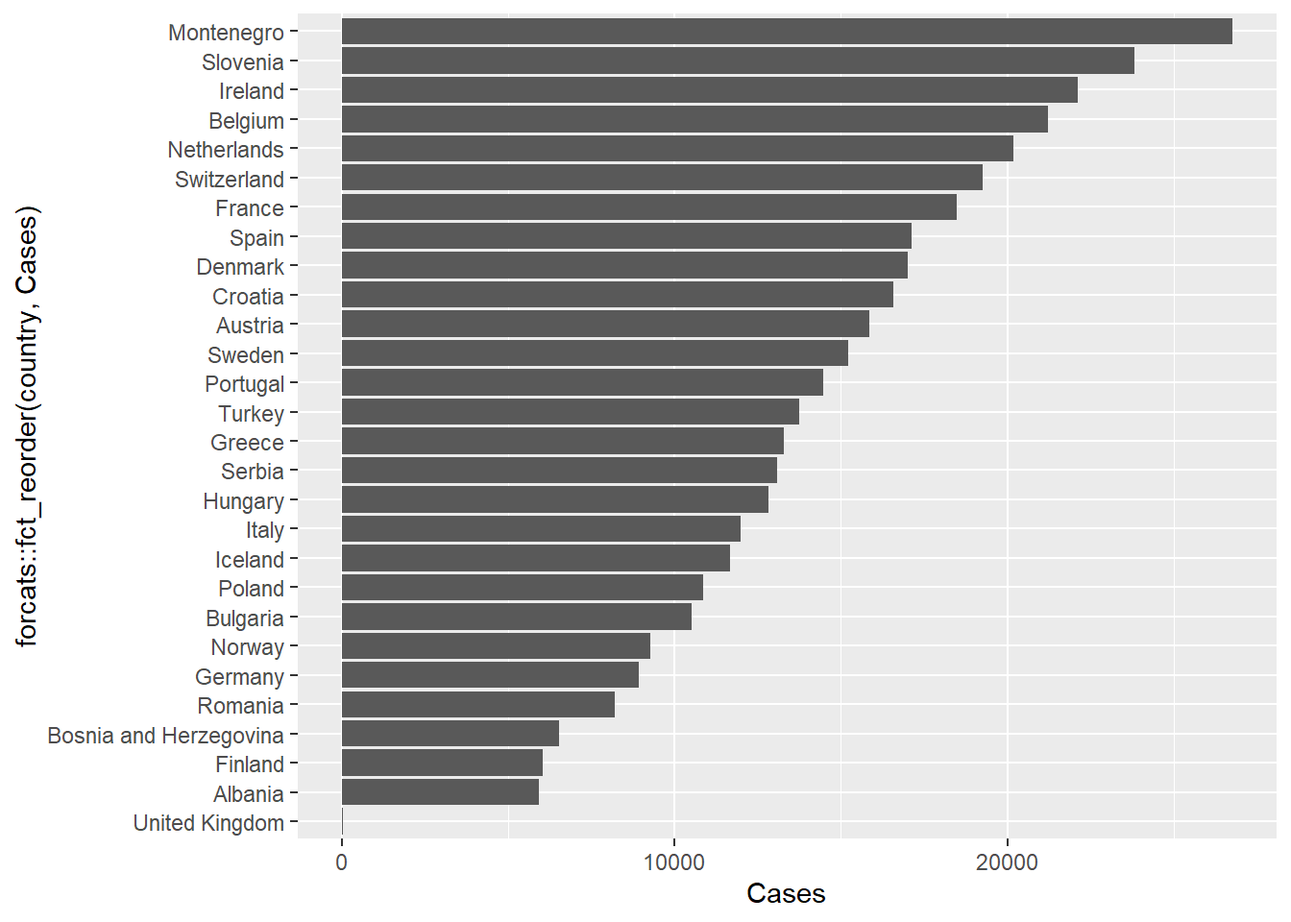
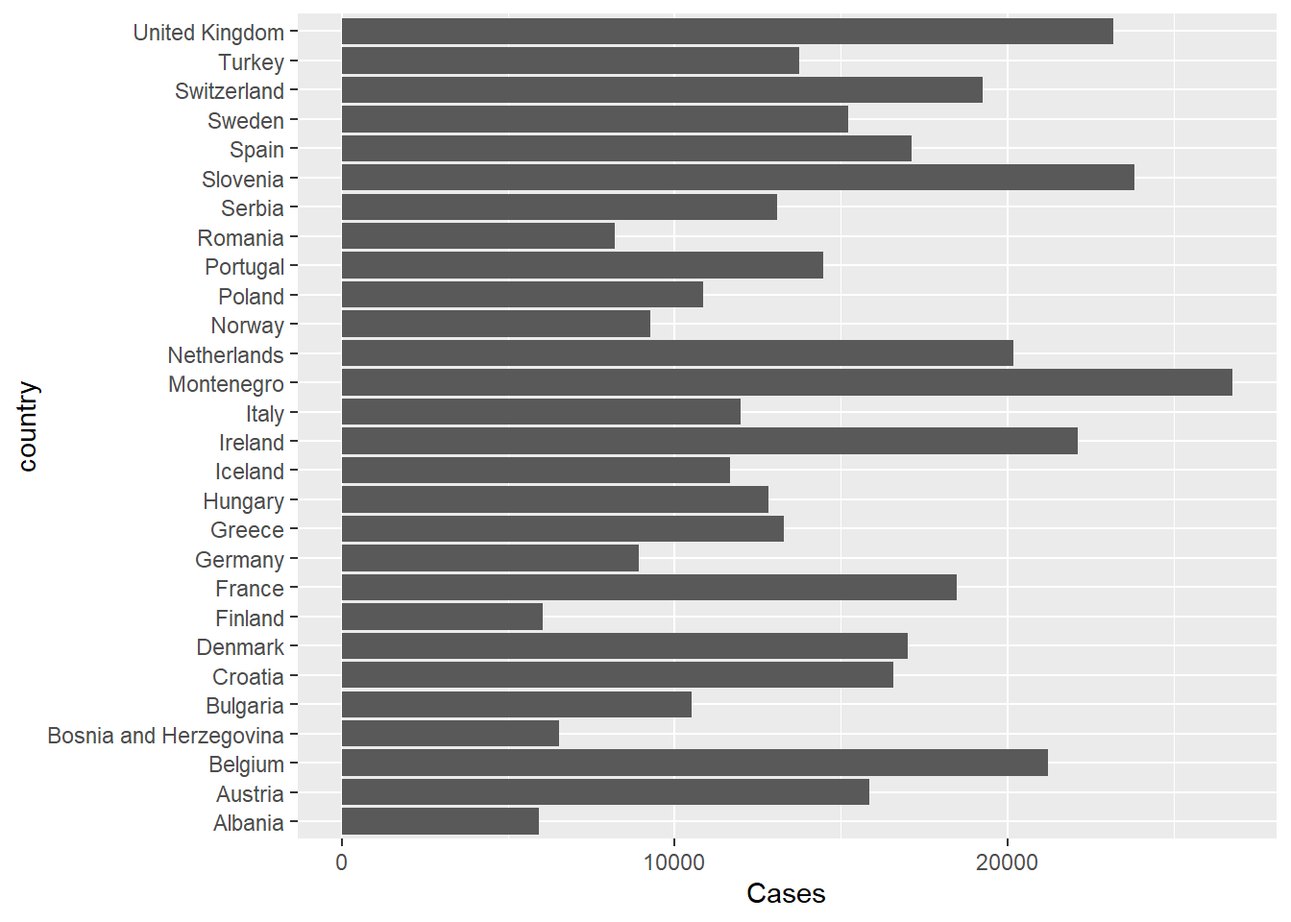
fix problem with Part 3 covid data

diff --git a/docs/training/r_part3/index.html b/docs/training/r_part3/index.html
@@ -7,7 +7,7 @@
 <meta name="viewport" content="width=device-width, initial-scale=1.0, user-scalable=yes">
 
 <meta name="author" content="Mark Dunning">
-<meta name="dcterms.date" content="2025-10-10">
+<meta name="dcterms.date" content="2025-10-16">
 
 <title>Introduction to R - Part 3 – Dr.&nbsp;Mark Dunning - Bioinformatician / Data Scientist</title>
 <style>
@@ -236,7 +236,7 @@ window.Quarto = {
     <div>
     <div class="quarto-title-meta-heading">Published</div>
     <div class="quarto-title-meta-contents">
-      <p class="date">October 10, 2025</p>
+      <p class="date">October 16, 2025</p>
     </div>
   </div>
   
@@ -1026,7 +1026,7 @@ Note
 <div class="cell">
 <div class="sourceCode cell-code" id="cb84"><pre class="sourceCode r code-with-copy"><code class="sourceCode r"><span id="cb84-1"><a href="#cb84-1" aria-hidden="true" tabindex="-1"></a>covid <span class="ot">&lt;-</span> <span class="fu">read_csv</span>(<span class="st">"raw_data/time_series_covid19_confirmed_global.csv"</span>)</span></code><button title="Copy to Clipboard" class="code-copy-button"><i class="bi"></i></button></pre></div>
 <div class="cell-output cell-output-stderr">
-<pre><code>Rows: 270 Columns: 1147
+<pre><code>Rows: 289 Columns: 1147
 ── Column specification ────────────────────────────────────────────────────────
 Delimiter: ","
 chr    (2): Province/State, Country/Region
@@ -1037,7 +1037,7 @@ dbl (1145): Lat, Long, 1/22/20, 1/23/20, 1/24/20, 1/25/20, 1/26/20, 1/27/20,...
 </div>
 <div class="sourceCode cell-code" id="cb86"><pre class="sourceCode r code-with-copy"><code class="sourceCode r"><span id="cb86-1"><a href="#cb86-1" aria-hidden="true" tabindex="-1"></a>covid</span></code><button title="Copy to Clipboard" class="code-copy-button"><i class="bi"></i></button></pre></div>
 <div class="cell-output cell-output-stdout">
-<pre><code># A tibble: 270 × 1,147
+<pre><code># A tibble: 289 × 1,147
    `Province/State`  `Country/Region`   Lat   Long `1/22/20` `1/23/20` `1/24/20`
    &lt;chr&gt;             &lt;chr&gt;            &lt;dbl&gt;  &lt;dbl&gt;     &lt;dbl&gt;     &lt;dbl&gt;     &lt;dbl&gt;
  1 &lt;NA&gt;              Afghanistan       33.9  67.7          0         0         0
@@ -1050,7 +1050,7 @@ dbl (1145): Lat, Long, 1/22/20, 1/23/20, 1/24/20, 1/25/20, 1/26/20, 1/27/20,...
  8 &lt;NA&gt;              Argentina        -38.4 -63.6          0         0         0
  9 &lt;NA&gt;              Armenia           40.1  45.0          0         0         0
 10 Australian Capit… Australia        -35.5 149.           0         0         0
-# ℹ 260 more rows
+# ℹ 279 more rows
 # ℹ 1,140 more variables: `1/25/20` &lt;dbl&gt;, `1/26/20` &lt;dbl&gt;, `1/27/20` &lt;dbl&gt;,
 #   `1/28/20` &lt;dbl&gt;, `1/29/20` &lt;dbl&gt;, `1/30/20` &lt;dbl&gt;, `1/31/20` &lt;dbl&gt;,
 #   `2/1/20` &lt;dbl&gt;, `2/2/20` &lt;dbl&gt;, `2/3/20` &lt;dbl&gt;, `2/4/20` &lt;dbl&gt;,
@@ -1091,7 +1091,7 @@ About “tidy data”
 <span id="cb90-6"><a href="#cb90-6" aria-hidden="true" tabindex="-1"></a>  <span class="fu">pivot_longer</span>(<span class="dv">5</span><span class="sc">:</span><span class="fu">last_col</span>(),<span class="at">names_to=</span><span class="st">"Date"</span>, <span class="at">values_to=</span><span class="st">"Cases"</span>)</span>
 <span id="cb90-7"><a href="#cb90-7" aria-hidden="true" tabindex="-1"></a>covid</span></code><button title="Copy to Clipboard" class="code-copy-button"><i class="bi"></i></button></pre></div>
 <div class="cell-output cell-output-stdout">
-<pre><code># A tibble: 308,610 × 6
+<pre><code># A tibble: 330,327 × 6
    `Province/State` country       Lat  Long Date    Cases
    &lt;chr&gt;            &lt;chr&gt;       &lt;dbl&gt; &lt;dbl&gt; &lt;chr&gt;   &lt;dbl&gt;
  1 &lt;NA&gt;             Afghanistan  33.9  67.7 1/22/20     0
@@ -1104,7 +1104,7 @@ About “tidy data”
  8 &lt;NA&gt;             Afghanistan  33.9  67.7 1/29/20     0
  9 &lt;NA&gt;             Afghanistan  33.9  67.7 1/30/20     0
 10 &lt;NA&gt;             Afghanistan  33.9  67.7 1/31/20     0
-# ℹ 308,600 more rows</code></pre>
+# ℹ 330,317 more rows</code></pre>
 </div>
 </div>
 <p>The number of rows and columns has changed dramatically, but this is a much more usable form for <code>dplyr</code> and <code>ggplot2</code>.</p>
@@ -1135,7 +1135,7 @@ Dealing with dates
 <span id="cb92-4"><a href="#cb92-4" aria-hidden="true" tabindex="-1"></a>  <span class="fu">mutate</span>(<span class="at">Date=</span><span class="fu">as.Date</span>(Date,<span class="st">"%m/%d/%y"</span>))</span>
 <span id="cb92-5"><a href="#cb92-5" aria-hidden="true" tabindex="-1"></a>covid</span></code><button title="Copy to Clipboard" class="code-copy-button"><i class="bi"></i></button></pre></div>
 <div class="cell-output cell-output-stdout">
-<pre><code># A tibble: 308,610 × 6
+<pre><code># A tibble: 330,327 × 6
    `Province/State` country       Lat  Long Date       Cases
    &lt;chr&gt;            &lt;chr&gt;       &lt;dbl&gt; &lt;dbl&gt; &lt;date&gt;     &lt;dbl&gt;
  1 &lt;NA&gt;             Afghanistan  33.9  67.7 2020-01-22     0
@@ -1148,7 +1148,7 @@ Dealing with dates
  8 &lt;NA&gt;             Afghanistan  33.9  67.7 2020-01-29     0
  9 &lt;NA&gt;             Afghanistan  33.9  67.7 2020-01-30     0
 10 &lt;NA&gt;             Afghanistan  33.9  67.7 2020-01-31     0
-# ℹ 308,600 more rows</code></pre>
+# ℹ 330,317 more rows</code></pre>
 </div>
 </div>
 <p>Another useful modification is to make sure only one row exists for each country. If we look at the data for some countries (e.g.&nbsp;China and UK) there are different entries for provinces and oversees territories. So we can change the Cases to be the <code>sum</code> of all cases for that country on a particular day. We can do this using the <code>group_by</code> and <code>summarise</code> functions from above.</p>
@@ -1165,8 +1165,8 @@ Dealing with dates
 </div>
 <div class="sourceCode cell-code" id="cb96"><pre class="sourceCode r code-with-copy"><code class="sourceCode r"><span id="cb96-1"><a href="#cb96-1" aria-hidden="true" tabindex="-1"></a>covid</span></code><button title="Copy to Clipboard" class="code-copy-button"><i class="bi"></i></button></pre></div>
 <div class="cell-output cell-output-stdout">
-<pre><code># A tibble: 218,313 × 3
-# Groups:   country [191]
+<pre><code># A tibble: 229,743 × 3
+# Groups:   country [201]
    country     Date       Cases
    &lt;chr&gt;       &lt;date&gt;     &lt;dbl&gt;
  1 Afghanistan 2020-01-22     0
@@ -1179,14 +1179,14 @@ Dealing with dates
  8 Afghanistan 2020-01-29     0
  9 Afghanistan 2020-01-30     0
 10 Afghanistan 2020-01-31     0
-# ℹ 218,303 more rows</code></pre>
+# ℹ 229,733 more rows</code></pre>
 </div>
 </div>
 <div class="cell">
 <div class="sourceCode cell-code" id="cb98"><pre class="sourceCode r code-with-copy"><code class="sourceCode r"><span id="cb98-1"><a href="#cb98-1" aria-hidden="true" tabindex="-1"></a>covid</span></code><button title="Copy to Clipboard" class="code-copy-button"><i class="bi"></i></button></pre></div>
 <div class="cell-output cell-output-stdout">
-<pre><code># A tibble: 218,313 × 3
-# Groups:   country [191]
+<pre><code># A tibble: 229,743 × 3
+# Groups:   country [201]
    country     Date       Cases
    &lt;chr&gt;       &lt;date&gt;     &lt;dbl&gt;
  1 Afghanistan 2020-01-22     0
@@ -1199,10 +1199,10 @@ Dealing with dates
  8 Afghanistan 2020-01-29     0
  9 Afghanistan 2020-01-30     0
 10 Afghanistan 2020-01-31     0
-# ℹ 218,303 more rows</code></pre>
+# ℹ 229,733 more rows</code></pre>
 </div>
 </div>
-<p>To join these new data with <code>gapminder</code> we have to start by telling R which columns in both data frames are equivalent. This is because there is no column name that is shared between both data frames.</p>
+<p>Since we previously renamed the country column in <code>covid</code> and both data frames now have a column called <code>country</code> we can use a <code>left_join</code>.</p>
 <div class="cell">
 <div class="sourceCode cell-code" id="cb100"><pre class="sourceCode r code-with-copy"><code class="sourceCode r"><span id="cb100-1"><a href="#cb100-1" aria-hidden="true" tabindex="-1"></a><span class="fu">left_join</span>(gapminder, covid)</span></code><button title="Copy to Clipboard" class="code-copy-button"><i class="bi"></i></button></pre></div>
 <div class="cell-output cell-output-stderr">
@@ -1216,7 +1216,7 @@ Dealing with dates
   "many-to-many"` to silence this warning.</code></pre>
 </div>
 <div class="cell-output cell-output-stdout">
-<pre><code># A tibble: 1,673,592 × 8
+<pre><code># A tibble: 1,755,816 × 8
    country     continent  year lifeExp     pop gdpPercap Date       Cases
    &lt;chr&gt;       &lt;chr&gt;     &lt;dbl&gt;   &lt;dbl&gt;   &lt;dbl&gt;     &lt;dbl&gt; &lt;date&gt;     &lt;dbl&gt;
  1 Afghanistan Asia       1952    28.8 8425333      779. 2020-01-22     0
@@ -1229,18 +1229,24 @@ Dealing with dates
  8 Afghanistan Asia       1952    28.8 8425333      779. 2020-01-29     0
  9 Afghanistan Asia       1952    28.8 8425333      779. 2020-01-30     0
 10 Afghanistan Asia       1952    28.8 8425333      779. 2020-01-31     0
-# ℹ 1,673,582 more rows</code></pre>
+# ℹ 1,755,806 more rows</code></pre>
+</div>
+</div>
+<div class="{callout-tip}">
+<p>If we hadn’t used <code>rename</code> previously, the joining code would look like this</p>
+<div class="cell">
+<div class="sourceCode cell-code" id="cb104"><pre class="sourceCode r code-with-copy"><code class="sourceCode r"><span id="cb104-1"><a href="#cb104-1" aria-hidden="true" tabindex="-1"></a><span class="fu">left_join</span>(gapminder, covid, <span class="at">by =</span> <span class="fu">c</span>(<span class="st">"county"</span> <span class="ot">=</span> <span class="st">"Country/Region"</span>))</span></code><button title="Copy to Clipboard" class="code-copy-button"><i class="bi"></i></button></pre></div>
 </div>
 </div>
 <p>Furthermore, we might also want to just use the <code>2007</code> rows from <code>gapminder</code>.</p>
 <div class="cell">
-<div class="sourceCode cell-code" id="cb104"><pre class="sourceCode r code-with-copy"><code class="sourceCode r"><span id="cb104-1"><a href="#cb104-1" aria-hidden="true" tabindex="-1"></a><span class="fu">filter</span>(gapminder, year <span class="sc">==</span> <span class="dv">2007</span>) <span class="sc">%&gt;%</span> </span>
-<span id="cb104-2"><a href="#cb104-2" aria-hidden="true" tabindex="-1"></a>  <span class="fu">left_join</span>(covid)</span></code><button title="Copy to Clipboard" class="code-copy-button"><i class="bi"></i></button></pre></div>
+<div class="sourceCode cell-code" id="cb105"><pre class="sourceCode r code-with-copy"><code class="sourceCode r"><span id="cb105-1"><a href="#cb105-1" aria-hidden="true" tabindex="-1"></a><span class="fu">filter</span>(gapminder, year <span class="sc">==</span> <span class="dv">2007</span>) <span class="sc">%&gt;%</span> </span>
+<span id="cb105-2"><a href="#cb105-2" aria-hidden="true" tabindex="-1"></a>  <span class="fu">left_join</span>(covid)</span></code><button title="Copy to Clipboard" class="code-copy-button"><i class="bi"></i></button></pre></div>
 <div class="cell-output cell-output-stderr">
 <pre><code>Joining with `by = join_by(country)`</code></pre>
 </div>
 <div class="cell-output cell-output-stdout">
-<pre><code># A tibble: 139,466 × 8
+<pre><code># A tibble: 146,318 × 8
    country     continent  year lifeExp      pop gdpPercap Date       Cases
    &lt;chr&gt;       &lt;chr&gt;     &lt;dbl&gt;   &lt;dbl&gt;    &lt;dbl&gt;     &lt;dbl&gt; &lt;date&gt;     &lt;dbl&gt;
  1 Afghanistan Asia       2007    43.8 31889923      975. 2020-01-22     0
@@ -1253,7 +1259,7 @@ Dealing with dates
  8 Afghanistan Asia       2007    43.8 31889923      975. 2020-01-29     0
  9 Afghanistan Asia       2007    43.8 31889923      975. 2020-01-30     0
 10 Afghanistan Asia       2007    43.8 31889923      975. 2020-01-31     0
-# ℹ 139,456 more rows</code></pre>
+# ℹ 146,308 more rows</code></pre>
 </div>
 </div>
 <section id="exercise-2" class="level3">
@@ -1288,14 +1294,14 @@ Some solutions
 <p>Compare trajectories of different countries. The <code>%in%</code> operator is an alternative to or (<code>|</code>) to find a country name that can either one of a number of possibilities.</p>
 <p><strong>Something is going wrong with United Kingdom here that I need to investigate!</strong></p>
 <div class="cell">
-<div class="sourceCode cell-code" id="cb107"><pre class="sourceCode r code-with-copy"><code class="sourceCode r"><span id="cb107-1"><a href="#cb107-1" aria-hidden="true" tabindex="-1"></a>covid <span class="ot">&lt;-</span> <span class="fu">read_csv</span>(<span class="st">"raw_data/time_series_covid19_confirmed_global.csv"</span>) <span class="sc">%&gt;%</span> </span>
-<span id="cb107-2"><a href="#cb107-2" aria-hidden="true" tabindex="-1"></a>  <span class="fu">rename</span>(<span class="at">country =</span> <span class="st">`</span><span class="at">Country/Region</span><span class="st">`</span>) <span class="sc">%&gt;%</span> </span>
-<span id="cb107-3"><a href="#cb107-3" aria-hidden="true" tabindex="-1"></a>  <span class="fu">pivot_longer</span>(<span class="dv">5</span><span class="sc">:</span><span class="fu">last_col</span>(),<span class="at">names_to=</span><span class="st">"Date"</span>, <span class="at">values_to=</span><span class="st">"Cases"</span>) <span class="sc">%&gt;%</span> </span>
-<span id="cb107-4"><a href="#cb107-4" aria-hidden="true" tabindex="-1"></a>  <span class="fu">mutate</span>(<span class="at">Date=</span><span class="fu">as.Date</span>(Date,<span class="st">"%m/%d/%y"</span>)) <span class="sc">%&gt;%</span> </span>
-<span id="cb107-5"><a href="#cb107-5" aria-hidden="true" tabindex="-1"></a>  <span class="fu">group_by</span>(country,Date) <span class="sc">%&gt;%</span> </span>
-<span id="cb107-6"><a href="#cb107-6" aria-hidden="true" tabindex="-1"></a>  <span class="fu">summarise</span>(<span class="at">Cases =</span> <span class="fu">sum</span>(Cases))</span></code><button title="Copy to Clipboard" class="code-copy-button"><i class="bi"></i></button></pre></div>
+<div class="sourceCode cell-code" id="cb108"><pre class="sourceCode r code-with-copy"><code class="sourceCode r"><span id="cb108-1"><a href="#cb108-1" aria-hidden="true" tabindex="-1"></a>covid <span class="ot">&lt;-</span> <span class="fu">read_csv</span>(<span class="st">"raw_data/time_series_covid19_confirmed_global.csv"</span>) <span class="sc">%&gt;%</span> </span>
+<span id="cb108-2"><a href="#cb108-2" aria-hidden="true" tabindex="-1"></a>  <span class="fu">rename</span>(<span class="at">country =</span> <span class="st">`</span><span class="at">Country/Region</span><span class="st">`</span>) <span class="sc">%&gt;%</span> </span>
+<span id="cb108-3"><a href="#cb108-3" aria-hidden="true" tabindex="-1"></a>  <span class="fu">pivot_longer</span>(<span class="dv">5</span><span class="sc">:</span><span class="fu">last_col</span>(),<span class="at">names_to=</span><span class="st">"Date"</span>, <span class="at">values_to=</span><span class="st">"Cases"</span>) <span class="sc">%&gt;%</span> </span>
+<span id="cb108-4"><a href="#cb108-4" aria-hidden="true" tabindex="-1"></a>  <span class="fu">mutate</span>(<span class="at">Date=</span><span class="fu">as.Date</span>(Date,<span class="st">"%m/%d/%y"</span>)) <span class="sc">%&gt;%</span> </span>
+<span id="cb108-5"><a href="#cb108-5" aria-hidden="true" tabindex="-1"></a>  <span class="fu">group_by</span>(country,Date) <span class="sc">%&gt;%</span> </span>
+<span id="cb108-6"><a href="#cb108-6" aria-hidden="true" tabindex="-1"></a>  <span class="fu">summarise</span>(<span class="at">Cases =</span> <span class="fu">sum</span>(Cases))</span></code><button title="Copy to Clipboard" class="code-copy-button"><i class="bi"></i></button></pre></div>
 <div class="cell-output cell-output-stderr">
-<pre><code>Rows: 270 Columns: 1147
+<pre><code>Rows: 289 Columns: 1147
 ── Column specification ────────────────────────────────────────────────────────
 Delimiter: ","
 chr    (2): Province/State, Country/Region
@@ -1305,21 +1311,21 @@ dbl (1145): Lat, Long, 1/22/20, 1/23/20, 1/24/20, 1/25/20, 1/26/20, 1/27/20,...
 ℹ Specify the column types or set `show_col_types = FALSE` to quiet this message.
 `summarise()` has grouped output by 'country'. You can override using the `.groups` argument.</code></pre>
 </div>
-<div class="sourceCode cell-code" id="cb109"><pre class="sourceCode r code-with-copy"><code class="sourceCode r"><span id="cb109-1"><a href="#cb109-1" aria-hidden="true" tabindex="-1"></a><span class="fu">filter</span>(covid, country <span class="sc">%in%</span> <span class="fu">c</span>(<span class="st">"United Kingdom"</span>,<span class="st">"France"</span>,<span class="st">"Spain"</span>)) <span class="sc">%&gt;%</span></span>
-<span id="cb109-2"><a href="#cb109-2" aria-hidden="true" tabindex="-1"></a>  <span class="fu">ggplot</span>(<span class="fu">aes</span>(<span class="at">x =</span> Date, <span class="at">y =</span> Cases,<span class="at">col=</span>country)) <span class="sc">+</span> <span class="fu">geom_line</span>()</span></code><button title="Copy to Clipboard" class="code-copy-button"><i class="bi"></i></button></pre></div>
+<div class="sourceCode cell-code" id="cb110"><pre class="sourceCode r code-with-copy"><code class="sourceCode r"><span id="cb110-1"><a href="#cb110-1" aria-hidden="true" tabindex="-1"></a><span class="fu">filter</span>(covid, country <span class="sc">%in%</span> <span class="fu">c</span>(<span class="st">"United Kingdom"</span>,<span class="st">"France"</span>,<span class="st">"Spain"</span>)) <span class="sc">%&gt;%</span></span>
+<span id="cb110-2"><a href="#cb110-2" aria-hidden="true" tabindex="-1"></a>  <span class="fu">ggplot</span>(<span class="fu">aes</span>(<span class="at">x =</span> Date, <span class="at">y =</span> Cases,<span class="at">col=</span>country)) <span class="sc">+</span> <span class="fu">geom_line</span>()</span></code><button title="Copy to Clipboard" class="code-copy-button"><i class="bi"></i></button></pre></div>
 <div class="cell-output-display">
 <div>
 <figure class="figure">
-<p><img src="index_files/figure-html/unnamed-chunk-55-1.png" class="img-fluid figure-img" width="672"></p>
+<p><img src="index_files/figure-html/unnamed-chunk-56-1.png" class="img-fluid figure-img" width="672"></p>
 </figure>
 </div>
 </div>
 </div>
 <div class="cell">
-<div class="sourceCode cell-code" id="cb110"><pre class="sourceCode r code-with-copy"><code class="sourceCode r"><span id="cb110-1"><a href="#cb110-1" aria-hidden="true" tabindex="-1"></a><span class="fu">filter</span>(gapminder, year <span class="sc">==</span> <span class="dv">2007</span>,continent<span class="sc">==</span><span class="st">"Europe"</span>) <span class="sc">%&gt;%</span></span>
-<span id="cb110-2"><a href="#cb110-2" aria-hidden="true" tabindex="-1"></a>  <span class="fu">left_join</span>(covid) <span class="sc">%&gt;%</span> </span>
-<span id="cb110-3"><a href="#cb110-3" aria-hidden="true" tabindex="-1"></a>  <span class="fu">filter</span>(Date <span class="sc">==</span> <span class="st">"2022-01-06"</span>) <span class="sc">%&gt;%</span> </span>
-<span id="cb110-4"><a href="#cb110-4" aria-hidden="true" tabindex="-1"></a>  <span class="fu">mutate</span>(<span class="at">Cases =</span> <span class="fu">round</span>(Cases <span class="sc">/</span> (pop <span class="sc">/</span> <span class="fl">1e5</span>)))</span></code><button title="Copy to Clipboard" class="code-copy-button"><i class="bi"></i></button></pre></div>
+<div class="sourceCode cell-code" id="cb111"><pre class="sourceCode r code-with-copy"><code class="sourceCode r"><span id="cb111-1"><a href="#cb111-1" aria-hidden="true" tabindex="-1"></a><span class="fu">filter</span>(gapminder, year <span class="sc">==</span> <span class="dv">2007</span>,continent<span class="sc">==</span><span class="st">"Europe"</span>) <span class="sc">%&gt;%</span></span>
+<span id="cb111-2"><a href="#cb111-2" aria-hidden="true" tabindex="-1"></a>  <span class="fu">left_join</span>(covid) <span class="sc">%&gt;%</span> </span>
+<span id="cb111-3"><a href="#cb111-3" aria-hidden="true" tabindex="-1"></a>  <span class="fu">filter</span>(Date <span class="sc">==</span> <span class="st">"2022-01-06"</span>) <span class="sc">%&gt;%</span> </span>
+<span id="cb111-4"><a href="#cb111-4" aria-hidden="true" tabindex="-1"></a>  <span class="fu">mutate</span>(<span class="at">Cases =</span> <span class="fu">round</span>(Cases <span class="sc">/</span> (pop <span class="sc">/</span> <span class="fl">1e5</span>)))</span></code><button title="Copy to Clipboard" class="code-copy-button"><i class="bi"></i></button></pre></div>
 <div class="cell-output cell-output-stderr">
 <pre><code>Joining with `by = join_by(country)`</code></pre>
 </div>
@@ -1343,38 +1349,11 @@ dbl (1145): Lat, Long, 1/22/20, 1/23/20, 1/24/20, 1/25/20, 1/26/20, 1/27/20,...
 <p>Try to make example similar to <a href="https://www.statista.com/statistics/1110187/coronavirus-incidence-europe-by-country/">https://www.statista.com/statistics/1110187/coronavirus-incidence-europe-by-country/</a>. We’re not using up-to-date figures for population so there will be some differences. The two data frames can be joined because they have a column name in common (<code>country</code>). Most of the country names that appear in <code>gapminder</code> also appear in the <code>covid</code> dataset, so not much data is lost in the join.</p>
 <p>Since we are interested in European countries for this dataset, we pre-filter the <code>gapminder</code> data. Also, we only need the population values from 2007.</p>
 <div class="cell">
-<div class="sourceCode cell-code" id="cb113"><pre class="sourceCode r code-with-copy"><code class="sourceCode r"><span id="cb113-1"><a href="#cb113-1" aria-hidden="true" tabindex="-1"></a><span class="fu">filter</span>(gapminder, year <span class="sc">==</span> <span class="dv">2007</span>,continent<span class="sc">==</span><span class="st">"Europe"</span>) <span class="sc">%&gt;%</span> </span>
-<span id="cb113-2"><a href="#cb113-2" aria-hidden="true" tabindex="-1"></a>  <span class="fu">left_join</span>(covid) <span class="sc">%&gt;%</span> </span>
-<span id="cb113-3"><a href="#cb113-3" aria-hidden="true" tabindex="-1"></a>  <span class="fu">filter</span>(Date <span class="sc">==</span> <span class="st">"2022-01-06"</span>) <span class="sc">%&gt;%</span> </span>
-<span id="cb113-4"><a href="#cb113-4" aria-hidden="true" tabindex="-1"></a>  <span class="fu">mutate</span>(<span class="at">Cases =</span> <span class="fu">round</span>(Cases <span class="sc">/</span> (pop <span class="sc">/</span> <span class="fl">1e5</span>))) <span class="sc">%&gt;%</span> </span>
-<span id="cb113-5"><a href="#cb113-5" aria-hidden="true" tabindex="-1"></a>  <span class="fu">ggplot</span>(<span class="fu">aes</span>(<span class="at">x =</span> Cases, <span class="at">y =</span> country)) <span class="sc">+</span> <span class="fu">geom_col</span>()</span></code><button title="Copy to Clipboard" class="code-copy-button"><i class="bi"></i></button></pre></div>
-<div class="cell-output cell-output-stderr">
-<pre><code>Joining with `by = join_by(country)`</code></pre>
-</div>
-<div class="cell-output-display">
-<div>
-<figure class="figure">
-<p><img src="index_files/figure-html/unnamed-chunk-57-1.png" class="img-fluid figure-img" width="672"></p>
-</figure>
-</div>
-</div>
-</div>
-<p>The default ordering for the bars is alphabetical, which is probably not a natural choice. The <code>forcats</code> package, which is part of <code>tidyverse</code> allows <em>factors</em> in a data frame to be re-ordered and re-labeled.</p>
-<ul>
-<li><a href="https://forcats.tidyverse.org/">forcats package</a></li>
-</ul>
-<p>In particular, we can use the <code>fct_reorder</code> function to reorder the country names according to the number of cases. This can be done inside the <code>ggplot2</code> function itself.</p>
-<div class="cell">
-<div class="sourceCode cell-code" id="cb115"><pre class="sourceCode r code-with-copy"><code class="sourceCode r"><span id="cb115-1"><a href="#cb115-1" aria-hidden="true" tabindex="-1"></a><span class="do">## this will install the package if it is not already installed</span></span>
-<span id="cb115-2"><a href="#cb115-2" aria-hidden="true" tabindex="-1"></a><span class="cf">if</span>(<span class="sc">!</span><span class="fu">require</span>(forcats)) <span class="fu">install.packages</span>(forcats)</span></code><button title="Copy to Clipboard" class="code-copy-button"><i class="bi"></i></button></pre></div>
-<div class="cell-output cell-output-stderr">
-<pre><code>Loading required package: forcats</code></pre>
-</div>
-<div class="sourceCode cell-code" id="cb117"><pre class="sourceCode r code-with-copy"><code class="sourceCode r"><span id="cb117-1"><a href="#cb117-1" aria-hidden="true" tabindex="-1"></a><span class="fu">filter</span>(gapminder, year <span class="sc">==</span> <span class="dv">2007</span>,continent<span class="sc">==</span><span class="st">"Europe"</span>) <span class="sc">%&gt;%</span> </span>
-<span id="cb117-2"><a href="#cb117-2" aria-hidden="true" tabindex="-1"></a>  <span class="fu">left_join</span>(covid) <span class="sc">%&gt;%</span> </span>
-<span id="cb117-3"><a href="#cb117-3" aria-hidden="true" tabindex="-1"></a>  <span class="fu">filter</span>(Date <span class="sc">==</span> <span class="st">"2022-01-06"</span>) <span class="sc">%&gt;%</span> </span>
-<span id="cb117-4"><a href="#cb117-4" aria-hidden="true" tabindex="-1"></a>  <span class="fu">mutate</span>(<span class="at">Cases =</span> <span class="fu">round</span>(Cases <span class="sc">/</span> (pop <span class="sc">/</span> <span class="fl">1e5</span>))) <span class="sc">%&gt;%</span> </span>
-<span id="cb117-5"><a href="#cb117-5" aria-hidden="true" tabindex="-1"></a>  <span class="fu">ggplot</span>(<span class="fu">aes</span>(<span class="at">x =</span> Cases, <span class="at">y =</span> forcats<span class="sc">::</span><span class="fu">fct_reorder</span>(country,Cases))) <span class="sc">+</span> <span class="fu">geom_col</span>()</span></code><button title="Copy to Clipboard" class="code-copy-button"><i class="bi"></i></button></pre></div>
+<div class="sourceCode cell-code" id="cb114"><pre class="sourceCode r code-with-copy"><code class="sourceCode r"><span id="cb114-1"><a href="#cb114-1" aria-hidden="true" tabindex="-1"></a><span class="fu">filter</span>(gapminder, year <span class="sc">==</span> <span class="dv">2007</span>,continent<span class="sc">==</span><span class="st">"Europe"</span>) <span class="sc">%&gt;%</span> </span>
+<span id="cb114-2"><a href="#cb114-2" aria-hidden="true" tabindex="-1"></a>  <span class="fu">left_join</span>(covid) <span class="sc">%&gt;%</span> </span>
+<span id="cb114-3"><a href="#cb114-3" aria-hidden="true" tabindex="-1"></a>  <span class="fu">filter</span>(Date <span class="sc">==</span> <span class="st">"2022-01-06"</span>) <span class="sc">%&gt;%</span> </span>
+<span id="cb114-4"><a href="#cb114-4" aria-hidden="true" tabindex="-1"></a>  <span class="fu">mutate</span>(<span class="at">Cases =</span> <span class="fu">round</span>(Cases <span class="sc">/</span> (pop <span class="sc">/</span> <span class="fl">1e5</span>))) <span class="sc">%&gt;%</span> </span>
+<span id="cb114-5"><a href="#cb114-5" aria-hidden="true" tabindex="-1"></a>  <span class="fu">ggplot</span>(<span class="fu">aes</span>(<span class="at">x =</span> Cases, <span class="at">y =</span> country)) <span class="sc">+</span> <span class="fu">geom_col</span>()</span></code><button title="Copy to Clipboard" class="code-copy-button"><i class="bi"></i></button></pre></div>
 <div class="cell-output cell-output-stderr">
 <pre><code>Joining with `by = join_by(country)`</code></pre>
 </div>
@@ -1386,13 +1365,22 @@ dbl (1145): Lat, Long, 1/22/20, 1/23/20, 1/24/20, 1/25/20, 1/26/20, 1/27/20,...
 </div>
 </div>
 </div>
-<p>A heatmap of number of cases over time (similar to that reported by the BBC) can be achieved using a <code>geom_tile</code></p>
+<p>The default ordering for the bars is alphabetical, which is probably not a natural choice. The <code>forcats</code> package, which is part of <code>tidyverse</code> allows <em>factors</em> in a data frame to be re-ordered and re-labeled.</p>
+<ul>
+<li><a href="https://forcats.tidyverse.org/">forcats package</a></li>
+</ul>
+<p>In particular, we can use the <code>fct_reorder</code> function to reorder the country names according to the number of cases. This can be done inside the <code>ggplot2</code> function itself.</p>
 <div class="cell">
-<div class="sourceCode cell-code" id="cb119"><pre class="sourceCode r code-with-copy"><code class="sourceCode r"><span id="cb119-1"><a href="#cb119-1" aria-hidden="true" tabindex="-1"></a><span class="do">### Get the 2007 gapminder data to avoid repeating data</span></span>
-<span id="cb119-2"><a href="#cb119-2" aria-hidden="true" tabindex="-1"></a><span class="fu">filter</span>(gapminder, year <span class="sc">==</span>  <span class="dv">2007</span>, continent<span class="sc">==</span><span class="st">"Europe"</span>) <span class="sc">%&gt;%</span> </span>
-<span id="cb119-3"><a href="#cb119-3" aria-hidden="true" tabindex="-1"></a>  <span class="fu">left_join</span>(covid) <span class="sc">%&gt;%</span> </span>
-<span id="cb119-4"><a href="#cb119-4" aria-hidden="true" tabindex="-1"></a>  <span class="fu">filter</span>(<span class="sc">!</span><span class="fu">is.na</span>(Cases)) <span class="sc">%&gt;%</span> <span class="do">## remove countries with missing values</span></span>
-<span id="cb119-5"><a href="#cb119-5" aria-hidden="true" tabindex="-1"></a>  <span class="fu">ggplot</span>(<span class="fu">aes</span>(<span class="at">x =</span> Date, <span class="at">y =</span> country,<span class="at">fill=</span>Cases)) <span class="sc">+</span> <span class="fu">geom_tile</span>()</span></code><button title="Copy to Clipboard" class="code-copy-button"><i class="bi"></i></button></pre></div>
+<div class="sourceCode cell-code" id="cb116"><pre class="sourceCode r code-with-copy"><code class="sourceCode r"><span id="cb116-1"><a href="#cb116-1" aria-hidden="true" tabindex="-1"></a><span class="do">## this will install the package if it is not already installed</span></span>
+<span id="cb116-2"><a href="#cb116-2" aria-hidden="true" tabindex="-1"></a><span class="cf">if</span>(<span class="sc">!</span><span class="fu">require</span>(forcats)) <span class="fu">install.packages</span>(forcats)</span></code><button title="Copy to Clipboard" class="code-copy-button"><i class="bi"></i></button></pre></div>
+<div class="cell-output cell-output-stderr">
+<pre><code>Loading required package: forcats</code></pre>
+</div>
+<div class="sourceCode cell-code" id="cb118"><pre class="sourceCode r code-with-copy"><code class="sourceCode r"><span id="cb118-1"><a href="#cb118-1" aria-hidden="true" tabindex="-1"></a><span class="fu">filter</span>(gapminder, year <span class="sc">==</span> <span class="dv">2007</span>,continent<span class="sc">==</span><span class="st">"Europe"</span>) <span class="sc">%&gt;%</span> </span>
+<span id="cb118-2"><a href="#cb118-2" aria-hidden="true" tabindex="-1"></a>  <span class="fu">left_join</span>(covid) <span class="sc">%&gt;%</span> </span>
+<span id="cb118-3"><a href="#cb118-3" aria-hidden="true" tabindex="-1"></a>  <span class="fu">filter</span>(Date <span class="sc">==</span> <span class="st">"2022-01-06"</span>) <span class="sc">%&gt;%</span> </span>
+<span id="cb118-4"><a href="#cb118-4" aria-hidden="true" tabindex="-1"></a>  <span class="fu">mutate</span>(<span class="at">Cases =</span> <span class="fu">round</span>(Cases <span class="sc">/</span> (pop <span class="sc">/</span> <span class="fl">1e5</span>))) <span class="sc">%&gt;%</span> </span>
+<span id="cb118-5"><a href="#cb118-5" aria-hidden="true" tabindex="-1"></a>  <span class="fu">ggplot</span>(<span class="fu">aes</span>(<span class="at">x =</span> Cases, <span class="at">y =</span> forcats<span class="sc">::</span><span class="fu">fct_reorder</span>(country,Cases))) <span class="sc">+</span> <span class="fu">geom_col</span>()</span></code><button title="Copy to Clipboard" class="code-copy-button"><i class="bi"></i></button></pre></div>
 <div class="cell-output cell-output-stderr">
 <pre><code>Joining with `by = join_by(country)`</code></pre>
 </div>
@@ -1400,6 +1388,24 @@ dbl (1145): Lat, Long, 1/22/20, 1/23/20, 1/24/20, 1/25/20, 1/26/20, 1/27/20,...
 <div>
 <figure class="figure">
 <p><img src="index_files/figure-html/unnamed-chunk-59-1.png" class="img-fluid figure-img" width="672"></p>
+</figure>
+</div>
+</div>
+</div>
+<p>A heatmap of number of cases over time (similar to that reported by the BBC) can be achieved using a <code>geom_tile</code></p>
+<div class="cell">
+<div class="sourceCode cell-code" id="cb120"><pre class="sourceCode r code-with-copy"><code class="sourceCode r"><span id="cb120-1"><a href="#cb120-1" aria-hidden="true" tabindex="-1"></a><span class="do">### Get the 2007 gapminder data to avoid repeating data</span></span>
+<span id="cb120-2"><a href="#cb120-2" aria-hidden="true" tabindex="-1"></a><span class="fu">filter</span>(gapminder, year <span class="sc">==</span>  <span class="dv">2007</span>, continent<span class="sc">==</span><span class="st">"Europe"</span>) <span class="sc">%&gt;%</span> </span>
+<span id="cb120-3"><a href="#cb120-3" aria-hidden="true" tabindex="-1"></a>  <span class="fu">left_join</span>(covid) <span class="sc">%&gt;%</span> </span>
+<span id="cb120-4"><a href="#cb120-4" aria-hidden="true" tabindex="-1"></a>  <span class="fu">filter</span>(<span class="sc">!</span><span class="fu">is.na</span>(Cases)) <span class="sc">%&gt;%</span> <span class="do">## remove countries with missing values</span></span>
+<span id="cb120-5"><a href="#cb120-5" aria-hidden="true" tabindex="-1"></a>  <span class="fu">ggplot</span>(<span class="fu">aes</span>(<span class="at">x =</span> Date, <span class="at">y =</span> country,<span class="at">fill=</span>Cases)) <span class="sc">+</span> <span class="fu">geom_tile</span>()</span></code><button title="Copy to Clipboard" class="code-copy-button"><i class="bi"></i></button></pre></div>
+<div class="cell-output cell-output-stderr">
+<pre><code>Joining with `by = join_by(country)`</code></pre>
+</div>
+<div class="cell-output-display">
+<div>
+<figure class="figure">
+<p><img src="index_files/figure-html/unnamed-chunk-60-1.png" class="img-fluid figure-img" width="672"></p>
 </figure>
 </div>
 </div>

diff --git a/docs/training.html b/docs/training.html
@@ -213,7 +213,7 @@ window.Quarto = {
 
 <div class="quarto-listing quarto-listing-container-grid" id="listing-listing">
 <div class="list grid quarto-listing-cols-3">
-<div class="g-col-1" data-index="0" data-listing-date-sort="1760050800000" data-listing-file-modified-sort="1760004114547" data-listing-date-modified-sort="NaN" data-listing-reading-time-sort="14" data-listing-word-count-sort="2624">
+<div class="g-col-1" data-index="0" data-listing-date-sort="1760569200000" data-listing-file-modified-sort="1760004114547" data-listing-date-modified-sort="NaN" data-listing-reading-time-sort="14" data-listing-word-count-sort="2624">
 <a href="./training/r_part1/index.html" class="quarto-grid-link">
 <div class="quarto-grid-item card h-100 card-left">
 <p class="card-img-top"><img src="files\training\r\new_proj1.png" style="height: 150px;"  class="thumbnail-image card-img"/></p>
@@ -229,13 +229,13 @@ In these materials, we explore fundamental operations of R and load some example
 Mark Dunning
 </div>
 <div class="listing-date">
-Oct 10, 2025
+Oct 16, 2025
 </div>
 </div>
 </div>
 </div></a>
 </div>
-<div class="g-col-1" data-index="1" data-listing-date-sort="1760050800000" data-listing-file-modified-sort="1760099850194" data-listing-date-modified-sort="NaN" data-listing-reading-time-sort="20" data-listing-word-count-sort="3985">
+<div class="g-col-1" data-index="1" data-listing-date-sort="1760569200000" data-listing-file-modified-sort="1760099850194" data-listing-date-modified-sort="NaN" data-listing-reading-time-sort="20" data-listing-word-count-sort="3985">
 <a href="./training/r_part2/index.html" class="quarto-grid-link">
 <div class="quarto-grid-item card h-100 card-left">
 <p class="card-img-top">
@@ -253,13 +253,13 @@ Starting to play with data with the <code>dplyr</code> and <code>ggplot2</code> 
 Mark Dunning
 </div>
 <div class="listing-date">
-Oct 10, 2025
+Oct 16, 2025
 </div>
 </div>
 </div>
 </div></a>
 </div>
-<div class="g-col-1" data-index="2" data-listing-date-sort="1760050800000" data-listing-file-modified-sort="1760104053678" data-listing-date-modified-sort="NaN" data-listing-reading-time-sort="21" data-listing-word-count-sort="4084">
+<div class="g-col-1" data-index="2" data-listing-date-sort="1760569200000" data-listing-file-modified-sort="1760606891317" data-listing-date-modified-sort="NaN" data-listing-reading-time-sort="21" data-listing-word-count-sort="4092">
 <a href="./training/r_part3/index.html" class="quarto-grid-link">
 <div class="quarto-grid-item card h-100 card-left">
 <p class="card-img-top">
@@ -277,13 +277,13 @@ Further data exploration and manipulation with <code>ggplot2</code> and <code>dp
 Mark Dunning
 </div>
 <div class="listing-date">
-Oct 10, 2025
+Oct 16, 2025
 </div>
 </div>
 </div>
 </div></a>
 </div>
-<div class="g-col-1" data-index="3" data-listing-date-sort="1760050800000" data-listing-file-modified-sort="1760095027561" data-listing-date-modified-sort="NaN" data-listing-reading-time-sort="1" data-listing-word-count-sort="1">
+<div class="g-col-1" data-index="3" data-listing-date-sort="1760569200000" data-listing-file-modified-sort="1760095027561" data-listing-date-modified-sort="NaN" data-listing-reading-time-sort="1" data-listing-word-count-sort="1">
 <a href="./training/bulk-rnaseq_1/index.html" class="quarto-grid-link">
 <div class="quarto-grid-item card h-100 card-left">
 <div class="listing-item-img-placeholder card-img-top" style="height: 150px;">&nbsp;</div>
@@ -303,7 +303,7 @@ Introduction to RNA-Seq - Part 1
 Mark Dunning
 </div>
 <div class="listing-date">
-Oct 10, 2025
+Oct 16, 2025
 </div>
 </div>
 </div>
